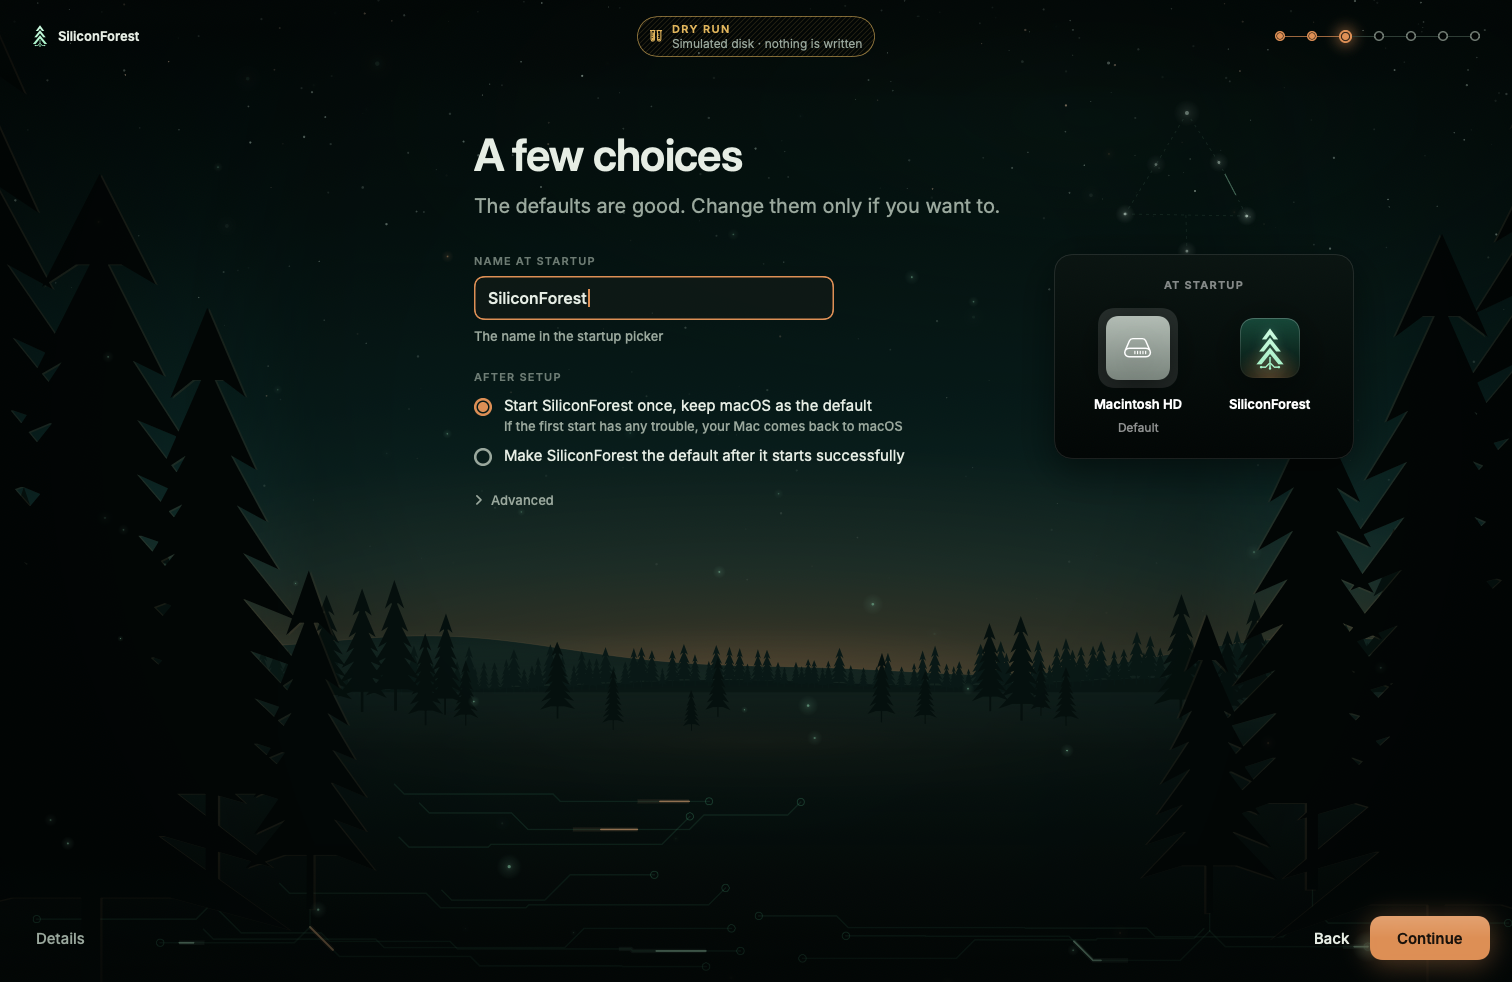
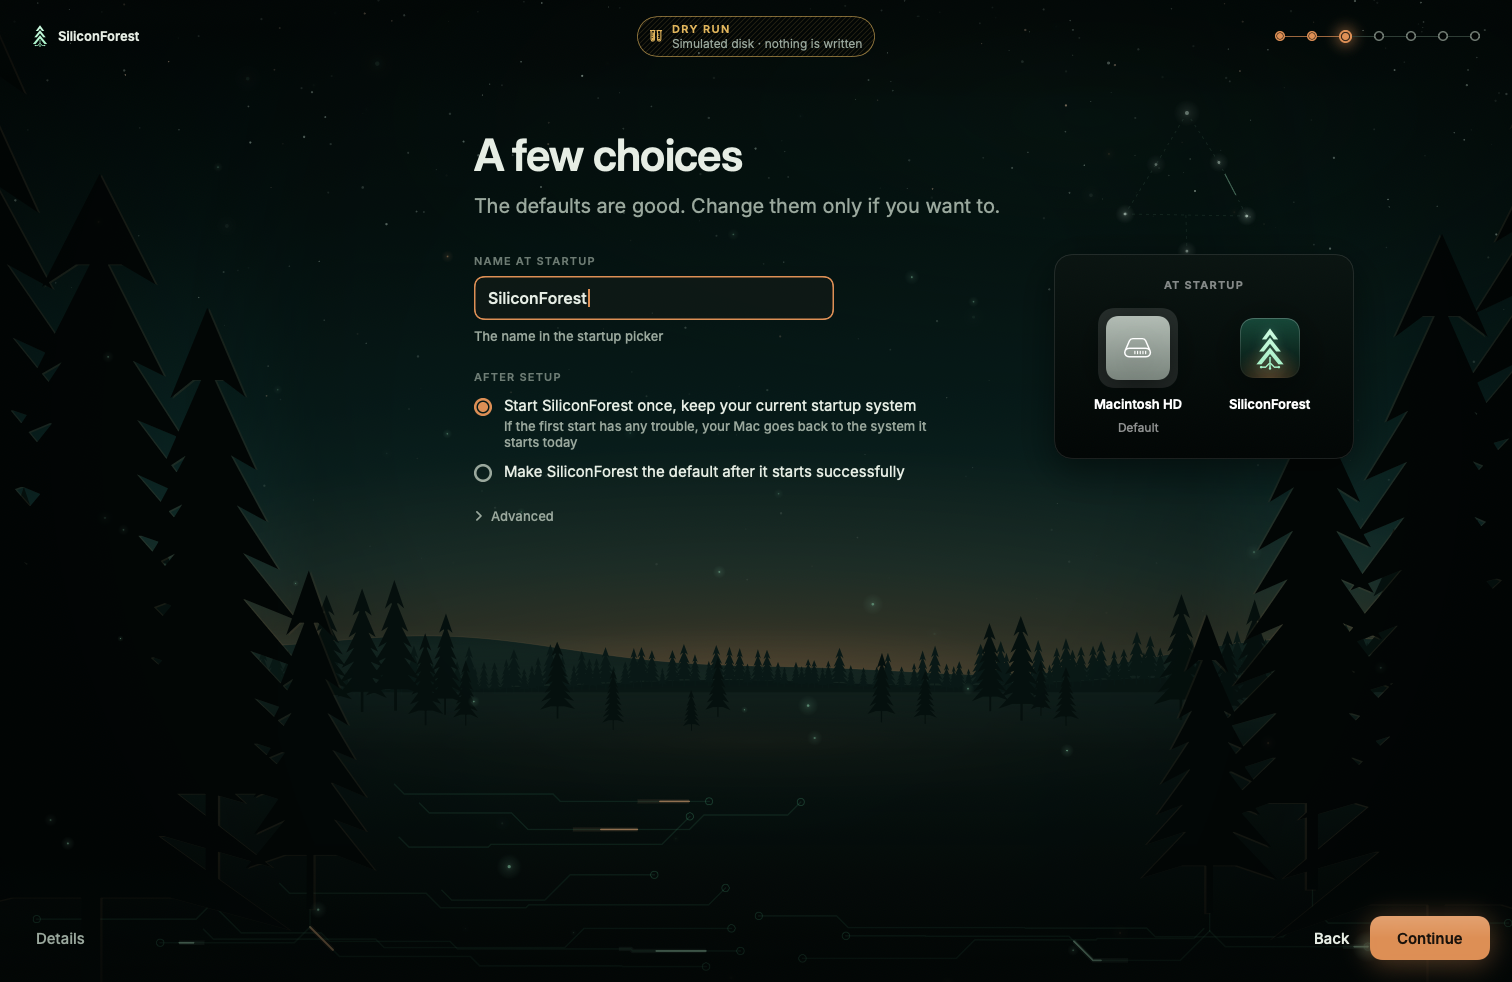
installer: follow the J313 profile and the macOS 27 gate (CHL-27)
- Decode maximum_allowed_major and gated_majors: macOS 27 is a required
  target that release builds refuse until gate S11 passes; the dry run (a
  dev build) shows it as a warning, and majors above the maximum fail.
- "Keep your current startup system" copy (UX-FLOW Options, R3, F3) and the
  S65 undo restores the previous startup system instead of assuming macOS.
- J313 (MacBook Air, M1) loads with no engine change; add a j313-256 dry-run
  fixture and its Check and Space screenshots.
- 27 tests.

Changed region(s): [[0.3108, 0.3971, 0.6217, 0.5499]]

diff --git a/installer/mac/Sources/SFCopy/Copy.swift b/installer/mac/Sources/SFCopy/Copy.swift
@@ -75,6 +75,7 @@ public enum Copy {
             case .macOSTooOld(let have, let need): return "macOS \(have). Needs \(need) or later"
             case .macOSBlocked(let major, _): return "macOS \(major) isn't tested yet"
             case .macOSUntested(let have, _): return "macOS \(have) isn't tested yet"
+            case .macOSGated(let major, let gate, _): return "macOS \(major): allowed in this dry run; release builds wait for test \(gate)"
             case .macOSUnknown: return "Couldn't read the macOS version"
             case .firmwareCurrent: return "Up to date"
             case .firmwareOld: return "Needs a macOS update"
@@ -217,8 +218,8 @@ public enum Copy {
         public static let nameLabel = "Name at startup"
         public static let nameHelp = "The name in the startup picker"
         public static let afterSetup = "After setup"
-        public static let startOnce = "Start SiliconForest once, keep macOS as the default"
-        public static let startOnceHelp = "If the first start has any trouble, your Mac comes back to macOS"
+        public static let startOnce = "Start SiliconForest once, keep your current startup system"
+        public static let startOnceHelp = "If the first start has any trouble, your Mac goes back to the system it starts today"
         public static let makeDefault = "Make SiliconForest the default after it starts successfully"
         public static let advanced = "Advanced"
         public static let channel = "Release channel"
@@ -345,7 +346,9 @@ public enum Copy {
         public static let workingTitle = "Setting up SiliconForest"
         public static let working = ["Checking this recovery system", "Allowing SiliconForest to start", "Installing the startup software", "Finishing up"]
         public static let readyTitle = "All set"
-        public static let readyBody = "Your Mac will now start SiliconForest for the first time. If anything goes wrong, turn it off and on and you'll be back in macOS."
+        public static func readyBody(_ current: String) -> String {
+            "Your Mac will now start SiliconForest for the first time. If anything goes wrong, turn it off and on and you'll be back in \(current)."
+        }
         public static let restart = "Restart"
         public static func countdown(_ s: Int) -> String { "Restarting in \(s) seconds" }
         public static let wait = "Wait"
@@ -366,7 +369,7 @@ public enum Copy {
         public static let partialTitle = "SiliconForest started, but didn't finish"
         public static func partialLead(_ stage: String) -> String { "It got as far as \(stage). Your Mac and macOS are fine." }
         public static let failedTitle = "SiliconForest didn't start"
-        public static let failedLead = "Your Mac came back to macOS safely. Nothing in macOS was changed."
+        public static func failedLead(_ current: String) -> String { "Your Mac went back to \(current) safely. Nothing in macOS was changed." }
     }
 
     // MARK: Part 4. Remove

diff --git a/installer/mac/Tests/SFInstallKitTests/EngineTests.swift b/installer/mac/Tests/SFInstallKitTests/EngineTests.swift
@@ -9,6 +9,13 @@ private func j293() throws -> DeviceProfile {
 
 @Suite("Profiles")
 struct ProfileTests {
+    @Test func everyCanonicalProfileLoads() throws {
+        let all = ProfileStore.loadAll()
+        #expect(all.contains { $0.id == "J293" } && all.contains { $0.id == "J313" })
+        let air = try #require(ProfileStore.profile(id: "J313"))
+        #expect(air.matches(hwModel: "MacBookAir10,1", board: nil) && air.soc.id == "t8103")
+    }
+
     @Test func loadsCanonicalJ293() throws {
         let p = try j293()
         #expect(p.sourceFormat == "canonical")   // installer/profiles/J293.json, not a fixture
@@ -16,7 +23,8 @@ struct ProfileTests {
         #expect(p.modelIdentifiers.contains("MacBookPro17,1"))
         #expect(p.board == "J293AP")
         #expect(p.support.minMacOS == "13.5")
-        #expect(p.support.blockedMajors.contains { $0.major == 27 })
+        #expect(p.support.gatedMajors.contains { $0.major == 27 && $0.gate == "S11" && !$0.passed })
+        #expect(p.support.maximumTestedMajor == 27)
         #expect(p.partitioning.stubContainerBytes == 2_499_805_184)
         #expect(p.partitioning.bootPartition.name == "SFBOOT" && p.partitioning.bootPartition.bytes == 524_288_000)
         #expect(p.partitioning.alignmentBytes == 1_048_576)
@@ -141,7 +149,12 @@ struct CompatibilityTests {
         #expect(checks.first { $0.kind == .macOS }?.status == .fail)
         facts.macOSVersion = "27.0"
         let blocked = CompatibilityChecker.run(facts: facts, snapshot: try fixture("j293-512").snapshot, profile: try j293())
-        if case .macOSBlocked(let major, _)? = blocked.first(where: { $0.kind == .macOS })?.finding { #expect(major == 27) } else { Issue.record("27 not blocked") }
+        if case .macOSBlocked(let major, _)? = blocked.first(where: { $0.kind == .macOS })?.finding { #expect(major == 27) } else { Issue.record("27 not blocked in a release build") }
+        let dev = CompatibilityChecker.run(facts: facts, snapshot: try fixture("j293-512").snapshot, profile: try j293(), allowGatedMajors: true)
+        #expect(dev.first { $0.kind == .macOS }?.status == .warning)
+        facts.macOSVersion = "28.0"
+        let tooNew = CompatibilityChecker.run(facts: facts, snapshot: try fixture("j293-512").snapshot, profile: try j293(), allowGatedMajors: true)
+        #expect(tooNew.first { $0.kind == .macOS }?.status == .fail)
         #expect(OSVersion("12.3") > OSVersion("12.2.1"))
         #expect(OSVersion("26.5.2") > OSVersion("15.6"))
     }

diff --git a/installer/mac/Sources/SFInstallKit/Engine/Compatibility.swift b/installer/mac/Sources/SFInstallKit/Engine/Compatibility.swift
@@ -20,6 +20,8 @@ public enum Finding: Sendable, Hashable {
     case macOSTooOld(have: String, need: String)
     case macOSBlocked(major: Int, reason: String)
     case macOSUntested(have: String, newestTested: Int)
+    /// A required target still behind its gate: refused in release builds, allowed in dry runs.
+    case macOSGated(major: Int, gate: String, reason: String)
     case macOSUnknown
     case firmwareCurrent
     case firmwareOld(have: String, need: String)
@@ -53,8 +55,9 @@ public enum EntryState: Sendable, Hashable {
 
 public enum CompatibilityChecker {
     /// The checks, in the order the UI reveals them.
+    /// `allowGatedMajors`: dev builds and dry runs may pass a gated major (D11); release builds refuse it.
     public static func run(facts: SystemFacts, snapshot: DiskSnapshot, profile: DeviceProfile?,
-                           release: ReleaseInfo = .placeholder) -> [CompatibilityCheck] {
+                           release: ReleaseInfo = .placeholder, allowGatedMajors: Bool = false) -> [CompatibilityCheck] {
         var out: [CompatibilityCheck] = []
         func add(_ k: CompatibilityCheck.Kind, _ s: CompatibilityCheck.Status, _ f: Finding) { out.append(.init(kind: k, status: s, finding: f)) }
 
@@ -74,6 +77,9 @@ public enum CompatibilityChecker {
                 add(.macOS, .fail, .macOSTooOld(have: v, need: minimum))
             } else if let b = profile?.support.blockedMajors.first(where: { $0.major == major }) {
                 add(.macOS, .fail, .macOSBlocked(major: b.major, reason: b.reason))
+            } else if let g = profile?.support.gatedMajors.first(where: { $0.major == major && !$0.passed }) {
+                add(.macOS, allowGatedMajors ? .warning : .fail,
+                    allowGatedMajors ? .macOSGated(major: g.major, gate: g.gate, reason: g.reason) : .macOSBlocked(major: g.major, reason: g.reason))
             } else if let max = profile?.support.maximumTestedMajor, major > max {
                 add(.macOS, .fail, .macOSBlocked(major: major, reason: "Not tested yet."))
             } else {

diff --git a/installer/mac/Sources/SFInstallKit/Model/SystemFacts.swift b/installer/mac/Sources/SFInstallKit/Model/SystemFacts.swift
@@ -24,6 +24,8 @@ public struct SystemFacts: Codable, Sendable, Hashable {
     public var fileVaultPercent: Int?
     /// nil = not checked (read-only mode checks it just before downloading).
     public var internet: Bool?
+    /// The system the Mac starts today (recorded so the install restores it, whichever OS it is).
+    public var startupSystem: String?
 
     public init(hwModel: String? = nil, board: String? = nil, chipName: String? = nil, macOSVersion: String? = nil,
                 macOSBuild: String? = nil, fileVault: FileVaultState = .unknown, sip: SIPState = .unknown,
@@ -33,7 +35,7 @@ public struct SystemFacts: Codable, Sendable, Hashable {
         self.power = power; self.userName = userName
     }
 
-    enum CodingKeys: String, CodingKey { case hwModel, board, chipName, macOSVersion, macOSBuild, fileVault, sip, bootPolicy, power, userName, userFullName, isAdmin, systemFirmware, fileVaultPercent, internet }
+    enum CodingKeys: String, CodingKey { case hwModel, board, chipName, macOSVersion, macOSBuild, fileVault, sip, bootPolicy, power, userName, userFullName, isAdmin, systemFirmware, fileVaultPercent, internet, startupSystem }
     public init(from decoder: Decoder) throws {
         let c = try decoder.container(keyedBy: CodingKeys.self)
         hwModel = try c.decodeIfPresent(String.self, forKey: .hwModel)
@@ -51,6 +53,7 @@ public struct SystemFacts: Codable, Sendable, Hashable {
         systemFirmware = try c.decodeIfPresent(String.self, forKey: .systemFirmware)
         fileVaultPercent = try c.decodeIfPresent(Int.self, forKey: .fileVaultPercent)
         internet = try c.decodeIfPresent(Bool.self, forKey: .internet)
+        startupSystem = try c.decodeIfPresent(String.self, forKey: .startupSystem)
     }
 }
 

diff --git a/installer/mac/Sources/SFInstallKit/Model/CanonicalProfile.swift b/installer/mac/Sources/SFInstallKit/Model/CanonicalProfile.swift
@@ -29,8 +29,11 @@ struct CanonicalProfile: Decodable {
     struct HostMacOS: Decodable {
         var minimum: String?
         var maximum_tested_major: Int?
+        var maximum_allowed_major: Int?
         var blocked_majors: [Blocked]?
+        var gated_majors: [Gated]?
         struct Blocked: Decodable { var major: Int; var reason: String }
+        struct Gated: Decodable { var major: Int; var gate: String?; var passed: Bool?; var reason: String }
     }
     struct Stub: Decodable {
         var version: String?
@@ -90,7 +93,8 @@ struct CanonicalProfile: Decodable {
 
         var support = DeviceProfile.Support(status: status ?? "development", minMacOS: host_macos?.minimum ?? "13.5",
                                             stubFirmware: stub?.version.map { [$0] } ?? [], preferredStubFirmware: stub?.version)
-        support.maximumTestedMajor = host_macos?.maximum_tested_major
+        support.maximumTestedMajor = host_macos?.maximum_allowed_major ?? host_macos?.maximum_tested_major
+        support.gatedMajors = (host_macos?.gated_majors ?? []).map { .init(major: $0.major, gate: $0.gate ?? "?", passed: $0.passed ?? false, reason: $0.reason) }
         support.blockedMajors = (host_macos?.blocked_majors ?? []).map { .init(major: $0.major, reason: $0.reason) }
         support.stubBuild = stub?.build
         support.stubRestoreImageURL = stub?.restore_image?.url

diff --git a/installer/mac/Sources/SFInstallKit/Model/DeviceProfile.swift b/installer/mac/Sources/SFInstallKit/Model/DeviceProfile.swift
@@ -40,6 +40,8 @@ public struct DeviceProfile: Codable, Sendable, Identifiable, Hashable {
         public var maximumTestedMajor: Int? = nil
         /// macOS majors the installer refuses, with the reason shown to the user.
         public var blockedMajors: [BlockedMajor] = []
+        /// Majors that are targets but stay refused by release builds until a named gate passes (D11).
+        public var gatedMajors: [GatedMajor] = []
         /// macOS build of the stub (e.g. "22G74").
         public var stubBuild: String? = nil
         public var stubRestoreImageURL: String? = nil
@@ -50,6 +52,12 @@ public struct DeviceProfile: Codable, Sendable, Identifiable, Hashable {
 
         public struct BlockedMajor: Codable, Sendable, Hashable {
             public var major: Int
+            public var reason: String
+        }
+        public struct GatedMajor: Codable, Sendable, Hashable {
+            public var major: Int
+            public var gate: String
+            public var passed: Bool
             public var reason: String
         }
     }

diff --git a/installer/mac/Sources/SFInstaller/RunScreens.swift b/installer/mac/Sources/SFInstaller/RunScreens.swift
@@ -183,7 +183,7 @@ struct InRecoveryScreen: View {
                 }
                 .frame(maxWidth: 560)
             case .ready:
-                ScreenHead(title: Copy.InRecovery.readyTitle, lead: Copy.InRecovery.readyBody)
+                ScreenHead(title: Copy.InRecovery.readyTitle, lead: Copy.InRecovery.readyBody(s.facts?.startupSystem ?? "macOS"))
                 Text(Copy.InRecovery.countdown(s.recoveryCountdown)).font(SFType.number(15, .medium)).foregroundStyle(theme.textSecondary)
             }
         }
@@ -216,7 +216,7 @@ struct FinishScreen: View {
             case .partial:
                 ScreenHead(title: Copy.Finish.partialTitle, lead: Copy.Finish.partialLead("starting system services"))
             case .didNotStart:
-                ScreenHead(title: Copy.Finish.failedTitle, lead: Copy.Finish.failedLead)
+                ScreenHead(title: Copy.Finish.failedTitle, lead: Copy.Finish.failedLead(s.facts?.startupSystem ?? "macOS"))
             }
         }
         .frame(maxHeight: .infinity, alignment: .topLeading)

diff --git a/installer/mac/Sources/SFInstallKit/Engine/Plan.swift b/installer/mac/Sources/SFInstallKit/Engine/Plan.swift
@@ -188,7 +188,8 @@ public enum Planner {
             step(.finalPreparations, "S55–S68", .finalPreparations, "Stage the Recovery step and set the next startup",
                  ops: [.writeFiles(target: "@stub", label: "stage 1 and SiliconForest Setup", items: [profile.kernel.stage1, "SiliconForest Setup.app", "SFInstall/plan.json"], bytes: 40 * Bytes.mb),
                        .bless(target: "@stub", label: name, nextOnly: true)],
-                 undo: [.bless(target: mac.identifier, label: "macOS", nextOnly: false)], weight: 4, seconds: 25, interruptible: false),
+                 // Undo restores the previous default, whichever OS it was (ENGINE §7, S65).
+                 undo: [.bless(target: mac.identifier, label: "the previous startup system", nextOnly: false)], weight: 4, seconds: 25, interruptible: false),
         ]
 
         return InstallPlan(kind: .install, profileID: profile.id, releaseVersion: release.version, options: options, disk: disk.identifier,

diff --git a/installer/mac/Sources/SFInstaller/App/Snapshotter.swift b/installer/mac/Sources/SFInstaller/App/Snapshotter.swift
@@ -143,6 +143,8 @@ struct Snapshotter {
         add("02b-check-running") { let s = await base(); s.screen = .check; s.checksRevealed = 4; s.checksRunning = true; return s }
         add("02c-check-no-space") { let s = await base("j293-256-full"); s.screen = .check; return s }
         add("02d-check-hand-made") { let s = await base("j293-512-devinstall"); s.screen = .check; return s }
+        add("02e-check-macbook-air") { let s = await base("j313-256"); s.screen = .check; return s }
+        add("04c-space-macbook-air") { let s = await base("j313-256"); s.setSize(s.constraints!.recommended); s.screen = .space; return s }
         add("03-before-you-begin") { let s = await base(); s.screen = .prepare; s.showSecurity = true; return s }
         add("04b-space-limit") {
             let s = await base(); s.screen = .space; s.setSize(Int64.max / 4); s.showPartitionDetails = true; return s

diff --git a/installer/mac/Sources/SFFlow/Session.swift b/installer/mac/Sources/SFFlow/Session.swift
@@ -274,7 +274,7 @@ public final class Session: ObservableObject {
         snapshot = s
         let matched = ProfileStore.profile(matching: f)
         profile = matched ?? ProfileStore.profile(id: "J293")
-        checks = CompatibilityChecker.run(facts: f, snapshot: s, profile: matched, release: release)
+        checks = CompatibilityChecker.run(facts: f, snapshot: s, profile: matched, release: release, allowGatedMajors: isDryRun)
         entry = CompatibilityChecker.entryState(snapshot: s, journal: nil)
         selectedInstall = ownedInstall
         if let c = constraints, siliconForestSize == 0 || siliconForestSize > c.maximum { setSize(c.recommended) }

diff --git a/installer/mac/README.md b/installer/mac/README.md
@@ -32,10 +32,11 @@ Sources/SFInstallKit/Model      DeviceProfile + CanonicalProfile (schema decoder
 Sources/SFInstallKit/Engine     Compatibility, Sizing, Plan, DiskOperation, Journal, InstallRunner
 Sources/SFInstallKit/Backends   DiskBackend, SimulatedDiskBackend, RealDiskBackend (read-only)
 Sources/SFInstallKit/Helper     SFHelperProtocol (verbs, DESIGN §6.3)
-Fixtures/disks/*.json           fake Macs: j293-512, j293-512-installed, j293-512-devinstall (hand-made, sf.unproven), j293-256-full
+Fixtures/disks/*.json           fake Macs: j293-512, j293-512-installed, j293-512-devinstall (hand-made, sf.unproven), j293-256-full, j313-256 (the Air)
 ```
 
-The device profile is the canonical `installer/profiles/J293.json`; there is no fixture profile any more.
+Device profiles are the canonical `installer/profiles/*.json` (J293 and J313 today); there is no
+fixture profile. J313 loaded without engine changes, which is the point of the profile layer.
 
 ## Build, run, test
 
